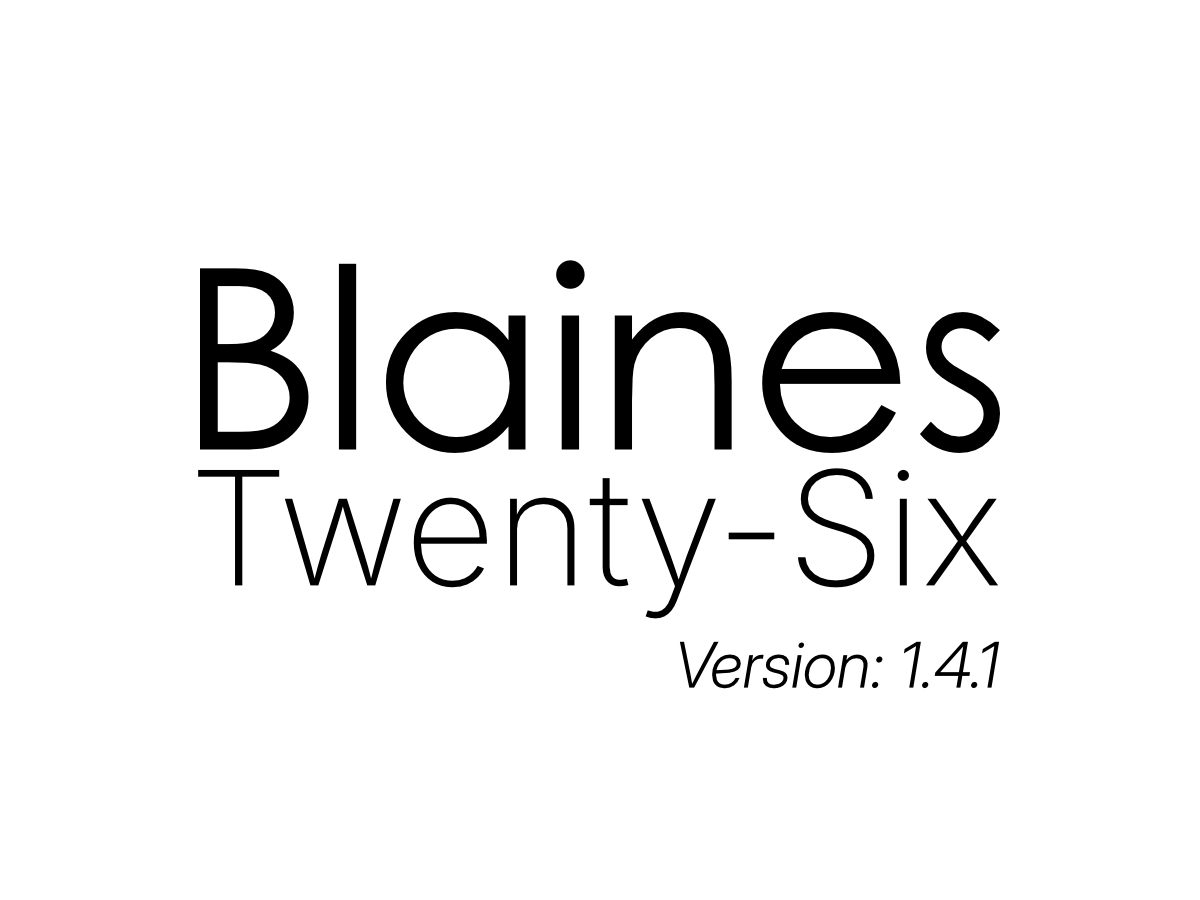
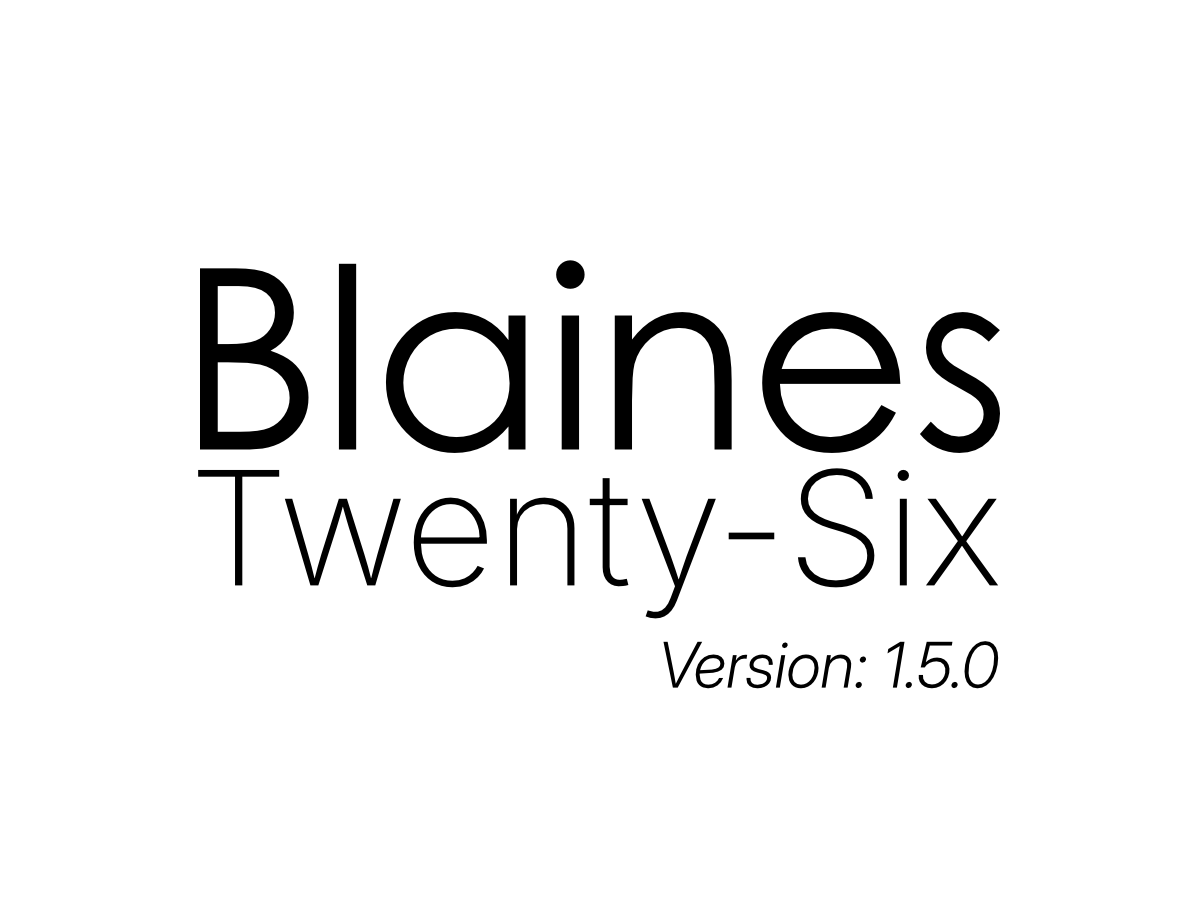
chore: bump theme version to 1.5.0

Changed region(s): [[0.555, 0.7156, 0.8325, 0.7778]]

diff --git a/style.css b/style.css
@@ -3,7 +3,7 @@ Theme Name: blainestwentysix
 Theme URI: https://example.com/blainestwentysix
 Author: Wayne Yallop
 Author URI: https://example.com
-Version: 1.4.1
+Version: 1.5.0
 Requires at least: 6.8
 Tested up to: 6.8.3
 Requires PHP: 8.2
